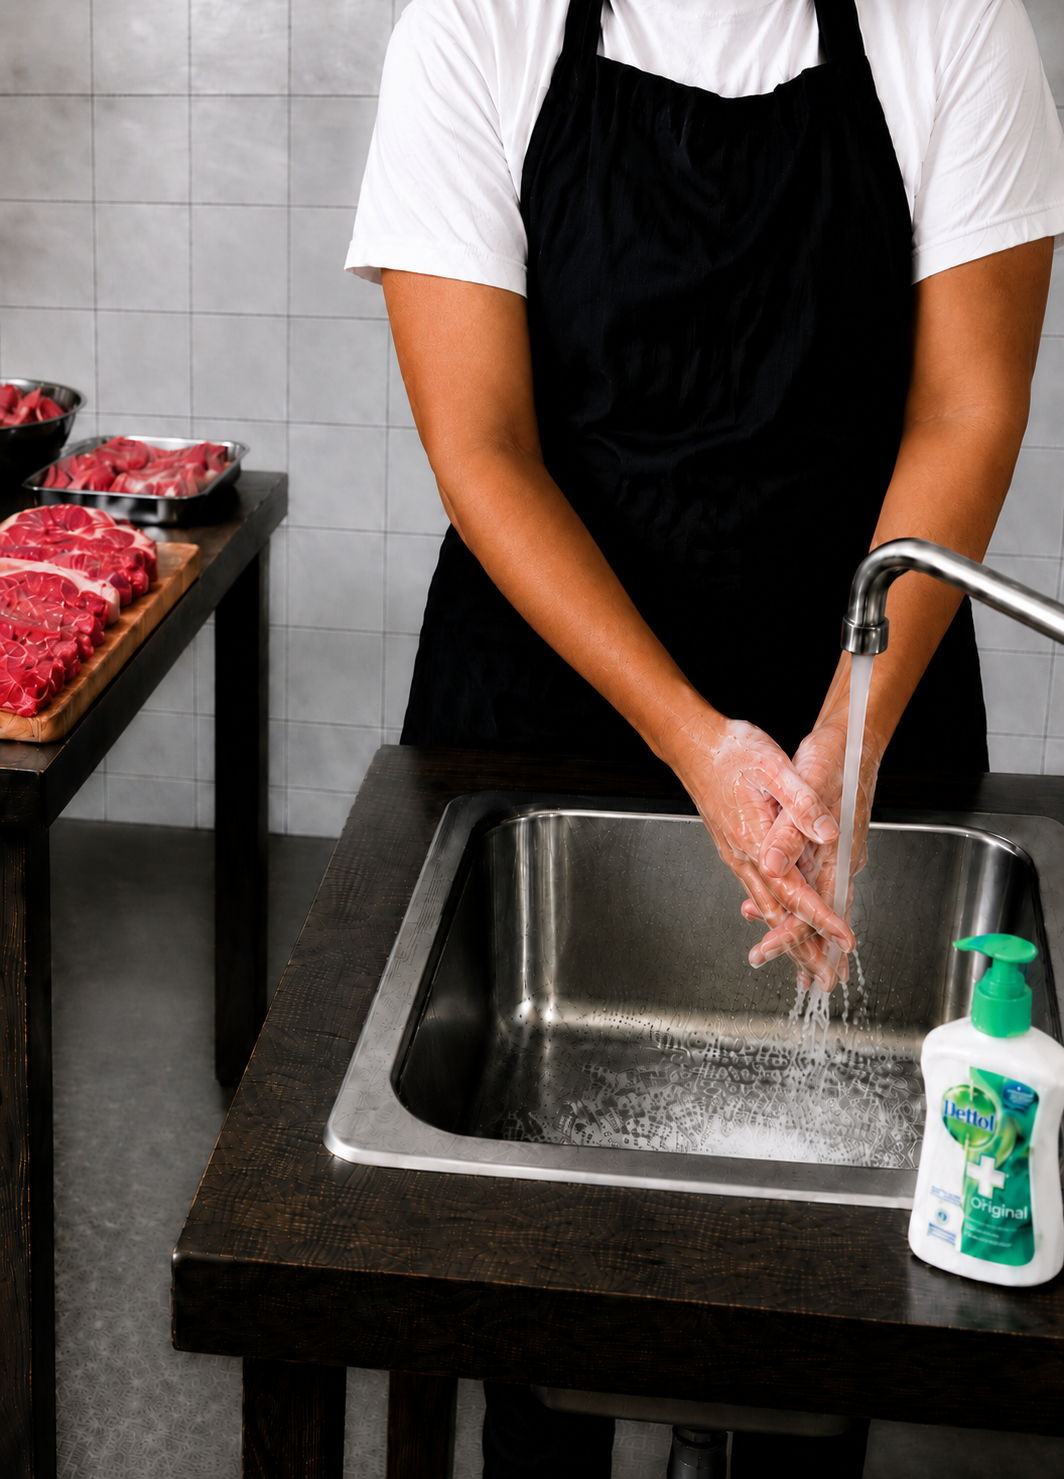
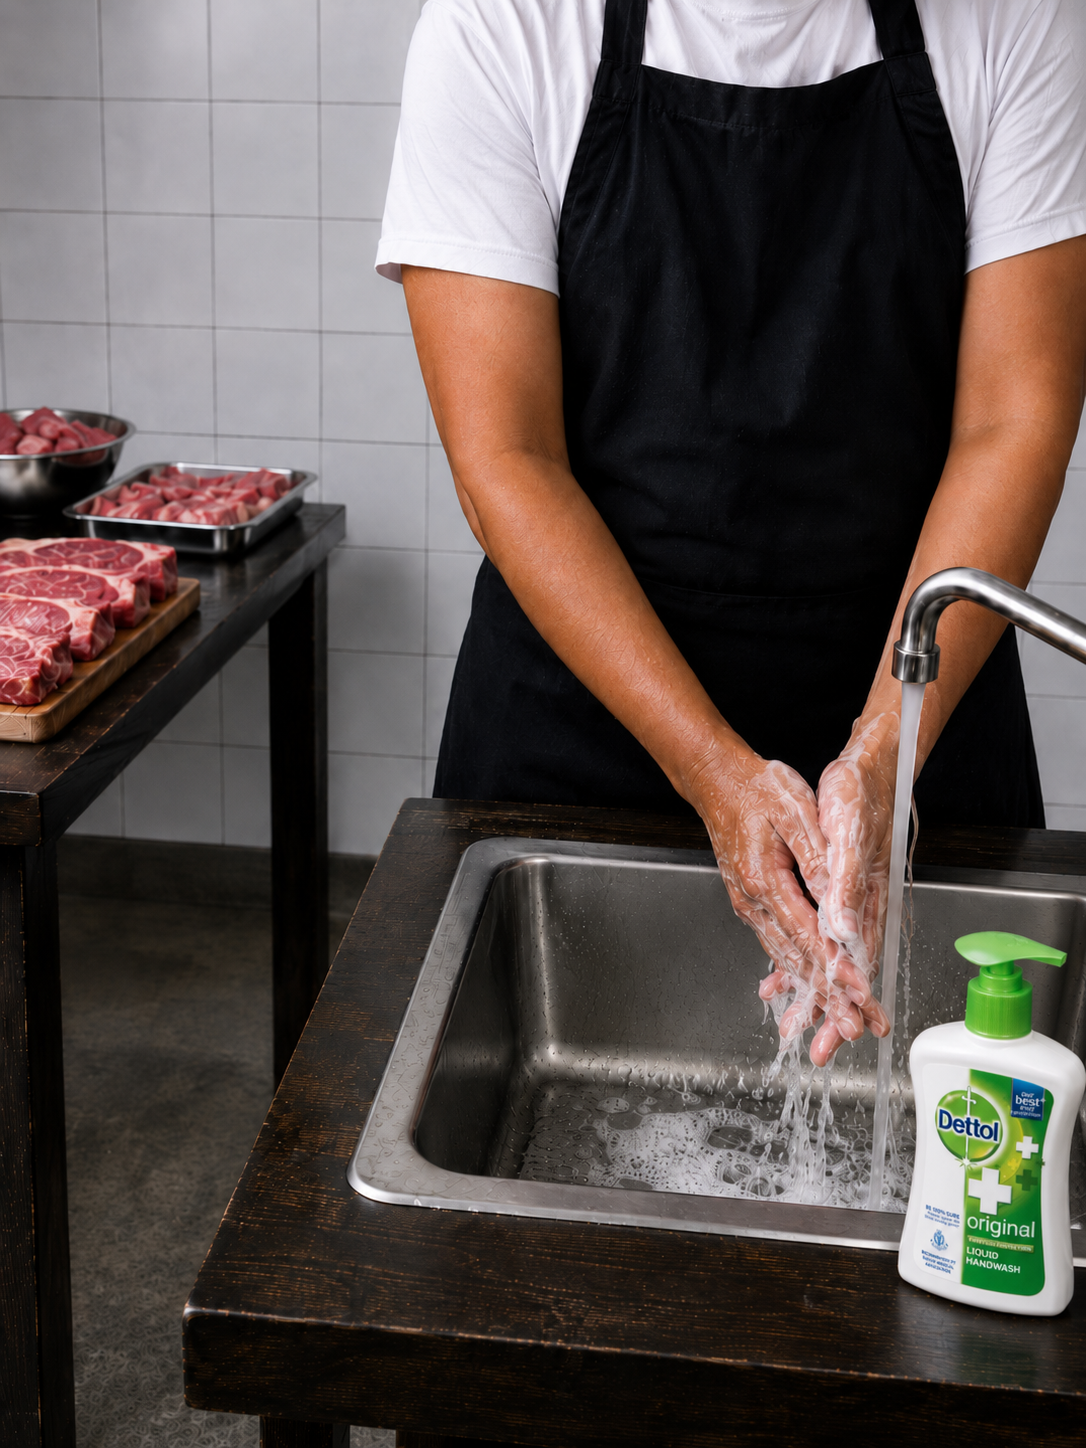
fix new landing page

diff --git a/frontend/components/ClosingCTA.tsx b/frontend/components/ClosingCTA.tsx
@@ -95,7 +95,7 @@ const ClosingCTA = () => {
             className="text-[#F4E9D8] uppercase font-bold"
             style={{ fontSize: "11px", letterSpacing: "0.3em" }}
           >
-            DIBUAT HARIAN • DIKIRIM HANGAT
+            DIBUAT SEGAR • SIAP DIPESAN
           </span>
         </div>
 
@@ -110,8 +110,8 @@ const ClosingCTA = () => {
             marginBottom: "28px"
           }}
         >
-          Sio Mei hangat, <br />
-          <span className="italic opacity-90">siap dipesan hari ini</span>
+          Sio Mei sapi premium, <br />
+          <span className="italic opacity-90">lembut dan gurih di setiap gigitan</span>
         </h2>
         
         {/* Subheadline */}
@@ -124,7 +124,7 @@ const ClosingCTA = () => {
             marginBottom: "32px"
           }}
         >
-          Siomay sapi premium handmade dari Babah Sapi, dibuat harian dan dikirim hangat ke lokasi Anda.
+          Dibuat dari daging sapi pilihan dengan proses higienis dan tekstur yang dijaga konsisten. Cocok untuk santapan keluarga, acara, hingga pesanan dalam jumlah besar.
         </p>
         
         {/* CTA Button */}
@@ -156,11 +156,11 @@ const ClosingCTA = () => {
             gap: "8px 24px",
           }}
         >
-          <span>Dibuat terbatas setiap hari</span>
+          <span>Daging sapi pilihan</span>
           <span className="opacity-50 text-[10px] hidden md:inline-block">•</span>
-          <span>Tanpa pengawet</span>
+          <span>Proses higienis</span>
           <span className="opacity-50 text-[10px] hidden md:inline-block">•</span>
-          <span>Pesan langsung via WhatsApp</span>
+          <span>Siap untuk berbagai kebutuhan</span>
         </div>
       </div>
       

diff --git a/frontend/data/siteContent.ts b/frontend/data/siteContent.ts
@@ -8,7 +8,7 @@ export const siteContent = {
     { label: "Kontak", href: "/#contact" },
   ],
   hero: {
-    headline: "Sio Mei Sapi Premium, Lembut dan Gurih Dibuat Harian",
+    headline: "Sio Mei Sapi Premium, Lembut dan Gurih di Setiap Gigitan",
     subheadline: "Siomay sapi handmade khas Babah Sapi, dibuat dari daging pilihan dan dikirim hangat melalui WhatsApp.",
     cta: "Pesan Sio Mei via WhatsApp",
     imagePlaceholder: "/images/siomay-hero-premium.png",
@@ -85,7 +85,7 @@ export const siteContent = {
     {
       id: 1,
       image: "/images/macro-sauce.png",
-      label: "Dibuat harian dari daging pilihan"
+      label: "Dibuat segar dari daging pilihan"
     },
     {
       id: 2,
@@ -128,7 +128,7 @@ export const siteContent = {
         id: 3,
         title: "“Pengiriman Hangat & Higienis”",
         excerpt: "“Dipesan pagi hari, sampai di rumah dalam kondisi masih hangat terbungkus rapi. Sangat praktis untuk sarapan atau camilan sore.” — dr. Sarah, Tangerang",
-        date: "PESANAN HARIAN",
+        date: "PESANAN SEGAR",
         image: "https://images.unsplash.com/photo-1552611052-33e04de081de?auto=format&fit=crop&q=80&w=800",
         alt: "Pengiriman siomay sapi hangat",
       },
@@ -142,7 +142,7 @@ export const siteContent = {
     legal: ["Kebijakan Privasi", "Syarat & Ketentuan"],
     support: ["Pengiriman", "Reseller"],
     navigation: ["Proses", "Menu", "Apa Kata Mereka"],
-    statement: "Babah Sapi menghadirkan Sio Mei, siomay sapi premium handmade dengan rasa gurih, lembut, dan dibuat harian.",
+    statement: "Babah Sapi menghadirkan Sio Mei, siomay sapi premium handmade dengan rasa gurih, lembut, dan kualitas yang dijaga konsisten.",
     copyright: "© 2026 Sio Mei Babah Sapi. Hak Cipta Dilindungi."
   },
 };

diff --git a/frontend/components/EditorialStory.tsx b/frontend/components/EditorialStory.tsx
@@ -82,10 +82,10 @@ const EditorialStory = () => {
         {/* Right: Small text block */}
         <div className="philosophy-copy col-span-1 md:col-span-1 lg:col-span-4 flex flex-col justify-center items-start text-left editorial-reveal max-w-[380px] w-full self-center gap-6">
           <p className="text-[#2b1a16] text-[18px] font-sans leading-[1.75] max-w-[360px]">
-            Sio Mei dibuat harian dari daging sapi pilihan, diracik dengan resep keluarga, dan dikukus untuk menjaga tekstur lembut, rasa gurih, serta aroma hangat khas Babah Sapi.
+            Sio Mei dibuat dari daging sapi pilihan, diracik dengan resep keluarga, lalu dikukus perlahan untuk menjaga tekstur lembut, rasa gurih, dan aroma hangat khas Babah Sapi.
           </p>
           <p className="text-[#2b1a16]/65 text-[13px] font-sans italic mt-[-10px] leading-relaxed max-w-[360px]">
-            "Nama Sio Mei kami maknai sebagai kelezatan sederhana yang dibuat dengan tangan setiap hari."
+            “Nama Sio Mei kami maknai sebagai kelezatan sederhana yang dibuat dengan tangan dan dijaga rasanya dari waktu ke waktu.”
           </p>
           
           {/* Benefit Badges */}
@@ -93,7 +93,7 @@ const EditorialStory = () => {
             <div className="flex flex-col items-start">
               <div className="w-12 h-[1px] bg-[#5b0b07]/30 mb-2.5" />
               <span className="text-[11px] tracking-[0.14em] uppercase text-[#5b0b07] font-bold leading-[1.35] font-sans">
-                Dibuat Harian
+                Dibuat Segar
               </span>
             </div>
             <div className="flex flex-col items-start">

diff --git a/frontend/components/FoodShowcase.tsx b/frontend/components/FoodShowcase.tsx
@@ -10,7 +10,7 @@ const FoodShowcase = () => {
   const { foods } = siteContent;
 
   const badges = ["Best Seller", "Favorit"];
-  const microInfos = ["Dibuat harian", "Pesan via WhatsApp"];
+  const microInfos = ["Dibuat Segar", "Pesan via WhatsApp"];
 
   return (
     <section 
@@ -55,7 +55,7 @@ const FoodShowcase = () => {
                 className="text-[#4b0705]/80 font-medium text-[15px] md:text-[16px] max-w-md leading-relaxed"
                 style={{ marginBottom: "24px" }}
               >
-                Pilihan siomay sapi premium handmade, dibuat harian dan siap dipesan hangat melalui WhatsApp.
+                Pilihan Sio Mei sapi premium handmade, diracik dari bahan pilihan dan siap dipesan hangat melalui WhatsApp.
               </p>
             </div>
             

diff --git a/frontend/components/GalleryStack.tsx b/frontend/components/GalleryStack.tsx
@@ -83,7 +83,7 @@ const GalleryStack = () => {
           <p 
             className="text-center text-[#3e2019]/72 mx-auto font-sans text-sm md:text-[15px] leading-[1.7] max-w-[760px] mt-[22px]"
           >
-            Setiap Sio Mei dibuat dalam batch terbatas, dari daging sapi pilihan, proses higienis, dan lipatan manual agar teksturnya tetap lembut, padat, dan gurih di setiap gigitan.
+           Setiap Sio Mei dibuat melalui proses produksi yang higienis dan terukur, menggunakan daging sapi pilihan serta lipatan manual agar teksturnya tetap lembut, padat, dan gurih di setiap gigitan.
           </p>
         </div>
 
@@ -247,7 +247,7 @@ const GalleryStack = () => {
           style={{ marginTop: "clamp(12px, 3vw, 30px)" }}
         >
           <p className="text-xs md:text-sm font-sans text-[#3e2019]/72 italic">
-            Dibuat terbatas setiap hari. Pesan sebelum batch hari ini habis.
+            Produksi fleksibel setiap hari, siap memenuhi pesanan satuan hingga jumlah besar.
           </p>
           
           {/* Benefit Divider Row */}

diff --git a/frontend/components/Hero.tsx b/frontend/components/Hero.tsx
@@ -633,7 +633,7 @@ const Hero = () => {
               <span className="hidden md:block">
                 Sio Mei Sapi Premium,<br />
                 Lembut dan Gurih<br />
-                Dibuat Harian
+                di Setiap Gigitan
               </span>
             </motion.h1>
           </div>
@@ -665,7 +665,7 @@ const Hero = () => {
 
               {/* Benefit kecil di bawah CTA */}
               <div className="flex items-center gap-3.5 mt-8 text-white/80 font-sans uppercase tracking-[0.18em] text-[10px] font-bold">
-                <span>Dibuat harian</span>
+                <span>Dibuat segar</span>
                 <span className="opacity-45 text-[8px]">•</span>
                 <span>Daging sapi pilihan</span>
                 <span className="opacity-45 text-[8px]">•</span>

diff --git a/frontend/app/layout.tsx b/frontend/app/layout.tsx
@@ -23,7 +23,7 @@ const gloock = Gloock({
 
 export const metadata: Metadata = {
   title: "Sio Mei by Babah Sapi | Siomay Sapi Premium Handmade",
-  description: "Sio Mei adalah siomay sapi premium handmade dari Babah Sapi, dibuat harian dari daging pilihan dengan tekstur lembut, gurih, dan siap dikirim hangat.",
+  description: "Sio Mei adalah siomay sapi premium handmade dari Babah Sapi, dibuat dari daging pilihan dengan tekstur lembut, gurih, dan siap dikirim hangat.",
   keywords: ["siomay sapi", "siomay premium", "kuliner indonesia", "babah sapi"],
 };
 